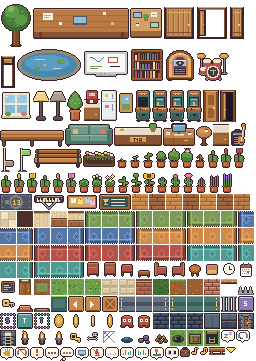
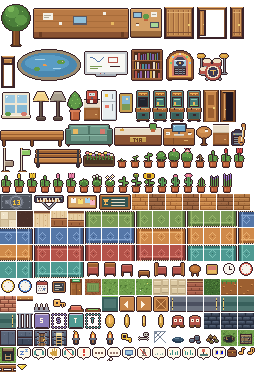
World clocks in Co-working: NYC, Berlin and Moscow with live hands
Three wall clocks side by side, each with a coloured rim, hands from the real time in its zone and the zone's name under it. Any of them opens the cities panel. They replace the single generated clock; a saved layout gets them as fixtures (KEEP_TYPES) at their generated spots when free.

diff --git a/client/src/engine.ts b/client/src/engine.ts
@@ -11,6 +11,14 @@ import { underground, MEETING_ROOM_ID, PLANT_REVEAL, PLANT_STAGES, plantDead, pl
 import { ITEMS, MAP, type ClientUser, type Pose, type Store, type DungeonFx } from './net';
 
 const TS = MAP.tileSize;
+const zoneFmt = new Map<string, Intl.DateTimeFormat>();
+/** Hour and minute on the wall in an IANA zone, right now. */
+function zoneHM(tz: string) {
+  let f = zoneFmt.get(tz); if (!f) zoneFmt.set(tz, f = new Intl.DateTimeFormat('en-US', { timeZone: tz, hourCycle: 'h23', hour: 'numeric', minute: 'numeric' }));
+  const p = f.formatToParts(new Date());
+  return { h: +p.find(x => x.type === 'hour')!.value, m: +p.find(x => x.type === 'minute')!.value };
+}
+function zoneTime(tz: string) { const { h, m } = zoneHM(tz); return `${String(h).padStart(2, '0')}:${String(m).padStart(2, '0')}`; }
 const MW = MAP.width * TS, MH = MAP.height * TS;
 const MEETING = MAP.rooms.find(r => r.id === MEETING_ROOM_ID)!.rect;
 const inMeetingRoom = (x: number, y: number) => x >= MEETING.x && x < MEETING.x + MEETING.w && y >= MEETING.y && y < MEETING.y + MEETING.h;
@@ -323,6 +331,24 @@ export class Engine {
     const name = o.dir && this.f(`${o.type}_${o.dir}`) ? `${o.type}_${o.dir}` : o.type!; // chairs face their desk
     const fr = this.f(name);
     return fr && { name, fr, x: o.x * TS + (o.w * TS - fr.w) / 2, y: o.wall ? o.y * TS : (o.y + o.h) * TS - fr.h };
+  }
+  /** The world clocks' hands, from the real time in each one's zone. */
+  private drawClockHands(ctx: CanvasRenderingContext2D) {
+    for (const o of MAP.objects) {
+      if (o.use?.kind !== 'clock') continue;
+      const s = this.sprite(o); if (!s) continue;
+      const { h, m } = zoneHM(o.use.tz), cx = s.x + 8, cy = s.y + 7;
+      const hand = (turns: number, len: number, color: string) => {
+        ctx.fillStyle = color;
+        const a = turns * Math.PI * 2;
+        for (let r = 0; r <= len; r += 0.5) ctx.fillRect(Math.round(cx + Math.sin(a) * r), Math.round(cy - Math.cos(a) * r), 1, 1);
+      };
+      hand(((h % 12) + m / 60) / 12, 2.5, '#3a2a2a'); hand(m / 60, 4, '#3a2a2a');
+      ctx.fillStyle = '#b4534a'; ctx.fillRect(cx, cy, 1, 1);
+      ctx.font = 'bold 4px system-ui, sans-serif'; ctx.textAlign = 'center'; ctx.textBaseline = 'top'; // the zone's name under the face
+      ctx.fillStyle = 'rgba(40,20,20,0.7)'; ctx.fillText(o.use.label, cx + 0.3, s.y + 15.3);
+      ctx.fillStyle = '#ffe9c4'; ctx.fillText(o.use.label, cx, s.y + 15);
+    }
   }
   private drawItem(ctx: CanvasRenderingContext2D, o: Item) {
     if (o.color) return this.drawRug(ctx, o as Rug);
@@ -779,7 +805,7 @@ export class Engine {
     ctx.beginPath(); ctx.rect(this.area.x * TS, this.area.y * TS, this.area.w * TS, this.area.h * TS); ctx.clip();
     ctx.drawImage(this.staticLayer, this.area.x * TS, this.area.y * TS, this.area.w * TS, this.area.h * TS,
       this.area.x * TS, this.area.y * TS, this.area.w * TS, this.area.h * TS);
-    if (this.areaDown) this.drawDungeon(ms);
+    if (this.areaDown) this.drawDungeon(ms); else this.drawClockHands(ctx);
 
     // hover tile + my destination marker
     if (this.hoverTile && !this.hoverUser && !this.tapZooms && !this.editing) {
@@ -903,7 +929,7 @@ export class Engine {
       const player = this.store.instruments[o.id];
       const instrumentTip = o.use?.kind === 'instrument' ? `${INSTRUMENTS[o.use.instrument].name} · ${this.store.seat === o.id ? "you're playing · Esc to stand up" : player === this.store.me ? "you're playing in another tab" : player ? `${this.store.name(player).split(' ')[0]} is playing` : 'click to play'}` : '';
       const what = instrumentTip || (o.use?.kind === 'arcade' ? this.store.gameDescription(o.id) : o.use?.kind === 'records' ? 'Deck Park · team records' : o.use?.kind === 'jukebox' ? !jukebox ? 'Jukebox · Reconnecting…' : jukebox.pausedAt !== null ? 'Jukebox · paused' : `Jukebox · ♪ ${track?.title ?? jukebox.track} — ${track?.artist ?? ''}` : o.sound ? 'Radio · music volume in ⚙' : o.use?.kind === 'toggle' ? `${o.use.label[0].toUpperCase()}${o.use.label.slice(1)} · ${this.isOn(o) ? 'on' : 'off'}`
-        : o.use?.kind === 'calendar' ? 'Calendar · your week' : o.use?.kind === 'achievements' ? 'Notice board · your plant and achievements' : o.use?.kind === 'link' ? `Vault 13 · click to open the ${o.use.label}` : o.use?.kind === 'clock' ? 'Clock · the time for our people' : o.use?.kind === 'meetings' ? `Meetings · ${this.store.meetingRooms.length || 'none'} on now` : o.sit ? `${o.type === 'bench' ? 'Bench' : 'Sofa'} · click to sit` : o.type === 'coffee_machine' ? 'Coffee machine' : o.type === 'fridge' ? 'Fridge' : o.type);
+        : o.use?.kind === 'calendar' ? 'Calendar · your week' : o.use?.kind === 'achievements' ? 'Notice board · your plant and achievements' : o.use?.kind === 'link' ? `Vault 13 · click to open the ${o.use.label}` : o.use?.kind === 'clock' ? `Clock · ${o.use.city}, ${zoneTime(o.use.tz)} · click for all our cities` : o.use?.kind === 'meetings' ? `Meetings · ${this.store.meetingRooms.length || 'none'} on now` : o.sit ? `${o.type === 'bench' ? 'Bench' : 'Sofa'} · click to sit` : o.type === 'coffee_machine' ? 'Coffee machine' : o.type === 'fridge' ? 'Fridge' : o.type);
       this.drawLabel(what, (o.x + o.w / 2) * TS, (o.y + o.h) * TS - fr.h + 4, camX, camY);
     }
     else if (this.hoverPlant) {

diff --git a/server/src/world.test.ts b/server/src/world.test.ts
@@ -367,15 +367,16 @@ test('a saved layout is brought up to date with the vault door: added, moved int
   assert.equal(objects.some(o => o.type === 'safe'), false);
   assert.equal(objects.find(o => o.id === painting.id)!.x, safe.x);
 });
-test('a saved layout with a plain clock gets the clock panel, where the admin left it', t => {
-  const { w } = setup(t), clock = map.objects.find(o => o.type === 'clock')!;
-  assert.equal(clock.use?.kind, 'clock');
+test('a saved layout with plain world clocks gets their zones, where the admin left them', t => {
+  const { w } = setup(t), clocks = map.objects.filter(o => o.type.startsWith('clock_'));
+  assert.deepEqual(clocks.map(o => o.use?.kind === 'clock' && o.use.tz), ['America/New_York', 'Europe/Berlin', 'Europe/Moscow']);
   const r = new World(structuredClone(map));
-  const objects = map.objects.map(o => (o.type === 'clock' ? { id: 'old', type: 'clock', x: 24, y: clock.y, w: 1, h: 1, wall: true } : o));
+  const objects = map.objects.map(o => (o.type === 'clock_berlin' ? { id: 'old', type: o.type, x: 30, y: o.y, w: 1, h: 1, wall: true } : o.type.startsWith('clock_') ? null : o)).filter((o): o is typeof map.objects[number] => !!o);
   r.load({ ...w.dump(), layout: structuredClone({ objects, rugs: map.rugs }) });
-  const got = r.map.objects.filter(o => o.type === 'clock');
-  assert.equal(got.length, 1);
-  assert.deepEqual([got[0].id, got[0].x, got[0].use], ['old', 24, clock.use]);
+  const got = r.map.objects.filter(o => o.type.startsWith('clock_'));
+  assert.equal(got.length, 3); // the missing ones come back at their generated spots
+  const berlin = got.find(o => o.type === 'clock_berlin')!;
+  assert.deepEqual([berlin.id, berlin.x, berlin.use], ['old', 30, clocks[1].use]);
 });
 // gen-map.mjs numbers objects in order, so a build that adds one shifts every id after it (the safe took o57 from a plant)
 const olderBuild = (objects: TileMap['objects']) => objects.map(o => ({ ...structuredClone(o), id: `o${Number(o.id.slice(1)) + 1}` }));

diff --git a/shared/map.ts b/shared/map.ts
@@ -28,7 +28,7 @@ export type ObjectUse = { kind: 'take'; items: UseItem[] } | { kind: 'toggle'; l
   | { kind: 'arcade'; label: string; game: 'park' } | { kind: 'records'; label: string }
   | { kind: 'meetings'; label: string } // the board by the Meeting room: which calendar meetings are on
   | { kind: 'achievements'; label: string } // the Lobby notice board: your plant and your badges
-  | { kind: 'clock'; label: string } // the Lobby wall clock: the time in our people's cities
+  | { kind: 'clock'; label: string; city: string; tz: string } // a Lobby wall clock (real time, one city); clicking opens the list of our cities
   | { kind: 'link'; label: string; url: string }; // opens a page in a new tab (the safe: the vault)
 export interface MapObject {
   id: string; type: string; x: number; y: number; w: number; h: number;
@@ -324,7 +324,7 @@ export const objectName = (type: string) => ({ table_long: 'long table', table_b
   painting_small: 'small painting', coffee_machine: 'coffee machine', meetings_board: 'meetings board', noticeboard: 'notice board', exit_door: 'exit door' } as Record<string, string>)[type] ?? type.replace(/_/g, ' ');
 
 /** Types that are one of a kind (the way out, the coffee machine…): they can be moved but not removed. */
-export const KEEP_TYPES = new Set(['exit_door', 'coffee_machine', 'fridge', 'jukebox', 'arcade', 'records', 'meetings_board', 'noticeboard', 'clock', 'safe', 'keyboard', 'drum_kit', 'bass_amp']);
+export const KEEP_TYPES = new Set(['exit_door', 'coffee_machine', 'fridge', 'jukebox', 'arcade', 'records', 'meetings_board', 'noticeboard', 'clock_nyc', 'clock_berlin', 'clock_moscow', 'safe', 'keyboard', 'drum_kit', 'bass_amp']);
 /** Types that stay exactly where they are. */
 export const FIXED_TYPES = new Set(['exit_door']);
 export const RUG_MIN = 2, RUG_MAX = 24;
